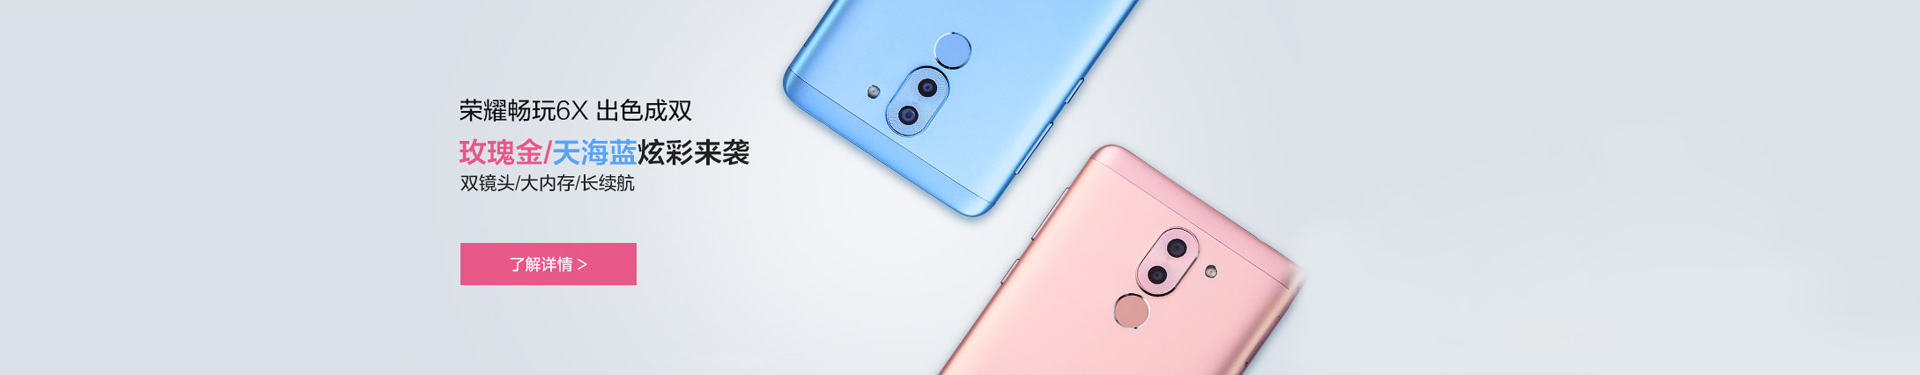
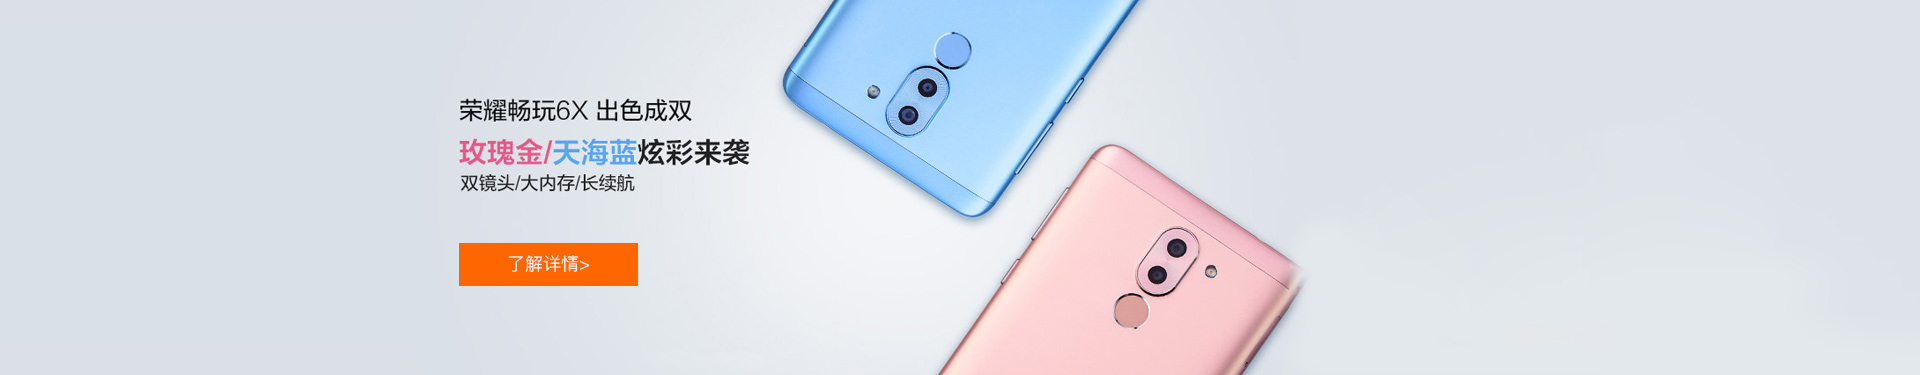
'艳松测试3修改'

Changed region(s): [[0.2188, 0.6453, 0.3438, 0.7627]]

diff --git a/css/style.css b/css/style.css
@@ -8,6 +8,7 @@
 }
 .user_phone{
   margin:0 8px;
+  margin-left:0;
   position: relative;
 }
 .user_phone:hover .user_phone_divs{
@@ -75,6 +76,7 @@
 .message_div1{
   position:relative;
   height:15px;
+  color: #aaaaaa;
   line-height:15px;
   margin-top:10px;
   margin-left:30px;
@@ -130,7 +132,7 @@
   margin-top:6px;
 }
 .Sina_icon1{
-  margin-right:15px;
+  /*margin-right:15px;*/
   cursor: pointer;
 }
 .WeChat_icon1{
@@ -206,8 +208,9 @@
   height:24px;
   font-size:14px;
   line-height: 24px;
+  *line-height: 24px;
   line-height: 20px\9;
-  border:1px solid #ff7744;
+  border:1px solid #ff6600;
   border-radius:12px;
 }
 .area_div>img{
@@ -358,6 +361,7 @@
 .suspend_nav1>li>a{
   height:18px;
   line-height: 18px;
+  *line-height: 18px;
   line-height: 14px\9;
   padding:0 15px;
   border-radius:10px;
@@ -445,6 +449,7 @@
 .nav_indicate_alls{
   width:100%;
   position: relative;
+  font-weight: normal;
   margin-top:20px;
   background: #fcfcfc;
   border-top:1px solid #d9d9d9;
@@ -471,7 +476,7 @@
 }
 
 .czk_ul1{
-    margin: 30px auto;
+    margin: 30px auto 0;
     width: 600px;
     height: 20px;
     padding-bottom: 35px;
@@ -519,16 +524,16 @@
   width:120px;
 }
 .TwoN_ul>li>a,.jf_Two_navUl>li>a{
-  background:#fff!important;
+  background:#fcfcfc!important;
   color:#555!important;
 }
 .TwoN_ul>li>a:hover,.jf_Two_navUl>li>a:hover{
-  color:#ff7744!important;
+  color:#ff6600!important;
   cursor: pointer;
 }
 .czk_link{
   background:#fff!important;
-  color:#ff7744!important;
+  color:#ff6600!important;
 }
 .cx_ul1>li{
   height:235px;
@@ -572,13 +577,13 @@
   margin:0 auto 5px;
   line-height: 14px;
   font-size:14px;
-  color:#ff7744;
+  color:#ff6600;
 }
 
 .recommendPic{
   width:134px;
   height:134px;
-  border: 1px solid #f9f9f9;
+  border: 1px solid #eee;
 }
 .recommendPic1{
   margin:0;
@@ -587,7 +592,7 @@
   width:134px;
   height:134px;
   display: inline-block;
-  border: 1px solid #f9f9f9;
+  border: 1px solid #eee;
   margin-right:30px;
 }
 .recommendTC_div{
@@ -603,7 +608,7 @@
   font-size:14px;
   line-height: 14px;
   color:#000;
-  border-left:3px solid #ff7744;
+  border-left:3px solid #ff6600;
 }
 .recommendTC_dec{
   font-size:12px;
@@ -619,24 +624,24 @@
 .recommendTC_price{
   text-align: left;
   font-size: 12px;
-  color:#ff7744;
+  color:#ff6600;
   padding:20px 0 10px 0;
 }
 .recommendTC_price1{
   text-align: left;
   font-size: 12px;
-  color:#ff7744;
+  color:#ff6600;
   padding:25px 0 10px 0;
 }
 .recommendTC_czBtn{
   width:88px;
   height:28px;
   font-size: 12px;
-  color:#ff7744;
+  color:#ff6600;
   line-height: 28px;
   text-align: center;
   border-radius: 15px;
-  border:1px solid #ff7744;
+  border:1px solid #ff6600;
   cursor: pointer;
   transition: all .2s linear;
   -webkit-transition: all .2s linear;
@@ -645,7 +650,7 @@
   -o-transition: all .2s linear;
 }
 .recommendTC_czBtn:hover{
-  background:#ff7744;
+  background:#ff6600;
   color:#fff;
 }
 .marginB7{
@@ -691,18 +696,18 @@
   display: block;
   position: relative;
   left:-50%;
-  -webkit-transition: all .2s linear;
-  -moz-transition: all .2s linear;
-  -ms-transition: all .2s linear;
-  -o-transition: all .2s linear;
+  /*-webkit-transition: all .5s linear;
+  -moz-transition: all .5s linear;
+  -ms-transition: all .5s linear;
+  -o-transition: all .5s linear;*/
 }
-.banner_div1:hover .banner1_pic{
+/*.banner_div1:hover .banner1_pic{
   top:-2px;
   -webkit-transform:scale(1.02);
   -moz-transform:scale(1.02);
   -ms-transform: scale(1.02);
   -o-transform: scale(1.02);
-}
+}*/
 
 .banner_index_ul{
   position:absolute;
@@ -745,7 +750,7 @@
 .cz_price,.otherP{
   margin:25px 15px 0;
   width:276px;
-  height:35px;
+  height:37px;
 }
 .cz_price{
   margin-left:5px;
@@ -777,7 +782,7 @@
 .cz_price>li>span{
   display: inline-block;
   width:40px;
-  height:17px;
+  height:19px;
   line-height: 19px;
   color:#fff;
   border-radius:8px;
@@ -790,6 +795,7 @@
   border:1px solid #da2627;
 }
 .zdy_btn{
+  height: 17px!important;
   line-height: 17px!important;
   width:50px!important;
   margin-left: 2px;
@@ -994,6 +1000,7 @@
   height:22px;
   color:#ff6600;
   line-height: 22px;
+  *line-height: 22px;
   line-height: 19px\9;
   border:1px solid #ff6600;
   border-radius:11px;
@@ -1844,6 +1851,7 @@
   width:20%;
   height:188px;
   text-align: center;
+  position: relative;
   -webkit-transition: all .2s linear;
   -moz-transition: all .2s linear;
   -ms-transition: all .2s linear;
@@ -1861,6 +1869,23 @@
   -ms-transform: translate3d(0,-2px,0);
   -o-transform: translate3d(0,-2px,0);
   transform: translate3d(0,-2px,0);
+}
+.life_upEwm{
+  width:130px;
+  height:130px;
+  position: absolute;
+  top:29px;
+  left:50%;
+  opacity: 0;
+  margin-left:-65px;
+  /*-webkit-transition: all .2s linear;
+  -moz-transition: all .2s linear;
+  -ms-transition: all .2s linear;
+  -o-transition: all .2s linear;
+  transition: all .2s linear;*/
+}
+.lifeService_ul li:hover .life_upEwm{
+  opacity: 1;
 }
 .lifeService_pic{
   width:50px;

diff --git a/index.html b/index.html
@@ -30,12 +30,13 @@
             <img src="images/star_icon_zhl.png">
             <img src="images/star_icon_zhl.png">
           </div>
-          <div class="message_div1 fl">
-            <img src="images/message_icon_zhl.png">
-            <span>消息</span>
-            <span class="colorff6600 message_num cur_pointer">(8)</span>
-          </div>
-
+          <a href="###">
+            <div class="message_div1 fl">
+              <img src="images/message_icon_zhl.png">
+              <span>消息</span>
+              <span class="colorff6600 message_num cur_pointer">(8)</span>
+            </div>
+          </a>
           <img src="images/Sina_icon_zhl.png" class="Sina_icon1 icon1 fr">
           <div class="WeChat_icon1 fr">
             <img src="images/WeChat_icon_zhl.png" class="icon1">
@@ -503,7 +504,7 @@
                         </ul>
                       </li>
                       <li class="borderRn">
-                        <img src="images/creamTc_icon.png" class="recommendPic">
+                        <img src="images/th_cp_pic3.png" class="recommendPic">
                       </li>
                     </ul>
                     <div class="fl recommendTC_div">
@@ -1089,7 +1090,7 @@
               <div class="czPSe_btn borderF fr">选金额</div>
           </div>
           <div class="cz_div">
-            <input type="text" class="color666 cz_phone cz_input fl" value="输入手机号码">
+            <input type="text" class="color666 cz_phone cz_input fl" value="输入手机/固话号码">
             <div class="cz_btn fr">充值</div>
           </div>
           <div class="notice_bg"></div>
@@ -1666,12 +1667,12 @@
 
             <ul class="G4_ul2">
               <li>
-                <p class="G4_ul2_message1">4G组合套餐</p>
+                <p class="G4_ul2_message1">冰激凌套餐</p>
                 <p class="G4_ul2_message2">精心推荐，加速加量不加价</p>
                 <div class="img_div3">
                   <img src="images/phone_Card_icon2.png" class="phone_icon2">
                   <div class="img_div3s">
-                    <img src="images/taocan1_icon_zhl.png" class="taocan_style2">
+                    <img src="images/creamIcon1_zhl.png" class="taocan_style2">
                     <p class="img_div3_message1">存30得120</p>
                     <p class="img_div3_message2">流量通话任性用</p>
                   </div>
@@ -2300,10 +2301,12 @@
         <li>
             <img src="images/114action.png" class="lifeService_pic">
             <p class="lifeService_txt">实惠114</p>
+            <img src="images/life_upEwm.png" class="life_upEwm">
         </li>
         <li>
             <img src="images/oldNew_icon.png" class="lifeService_pic">
             <p class="lifeService_txt">旧机换话费</p>
+            <img src="images/life_upEwm.png" class="life_upEwm">
         </li>
         <li>
             <img src="images/help_icon.png" class="lifeService_pic">
@@ -2433,7 +2436,7 @@
           <li class="G4_div_f"><a href="javascript:FloorGo('G4_div');">套餐/靓号</a></li>
           <li class="phoneAccessories_f"><a href="javascript:FloorGo('phoneAccessories');">手机/配件</a></li>
           <li class="InternetCard_f"><a href="javascript:FloorGo('InternetCard');">上网卡</a></li>
-          <li class="lifeService_f"><a href="javascript:FloorGo('lifeService');">生活服务</a></li>
+          <li class="lifeService_f borderBn"><a href="javascript:FloorGo('lifeService');">生活服务</a></li>
         </ul>
       </div>
     </div>

diff --git a/js/index.js b/js/index.js
@@ -280,13 +280,13 @@ $('.cz_price>li>span').click(function(){
 // 充值金额输入框
 $('.cz_phone').focus(function(){
   var this_val=$(this).val();
-  if(this_val=='输入手机号码'){
+  if(this_val=='输入手机/固话号码'){
     $(this).val('').removeClass('color666');
   }
 }).blur(function(){
   var this_val=$(this).val();
   if(this_val==''){
-    $(this).val('输入手机号码').addClass('color666');
+    $(this).val('输入手机/固话号码').addClass('color666');
   }
 })
 $('.otherP_input').focus(function(){

diff --git a/css/new_base1.css b/css/new_base1.css
@@ -63,6 +63,9 @@ body{
 .borderRn{
   border-right:none!important;
 }
+.borderBn{
+  border-bottom:none!important;
+}
 .Left0{
   left:0!important;
 }
